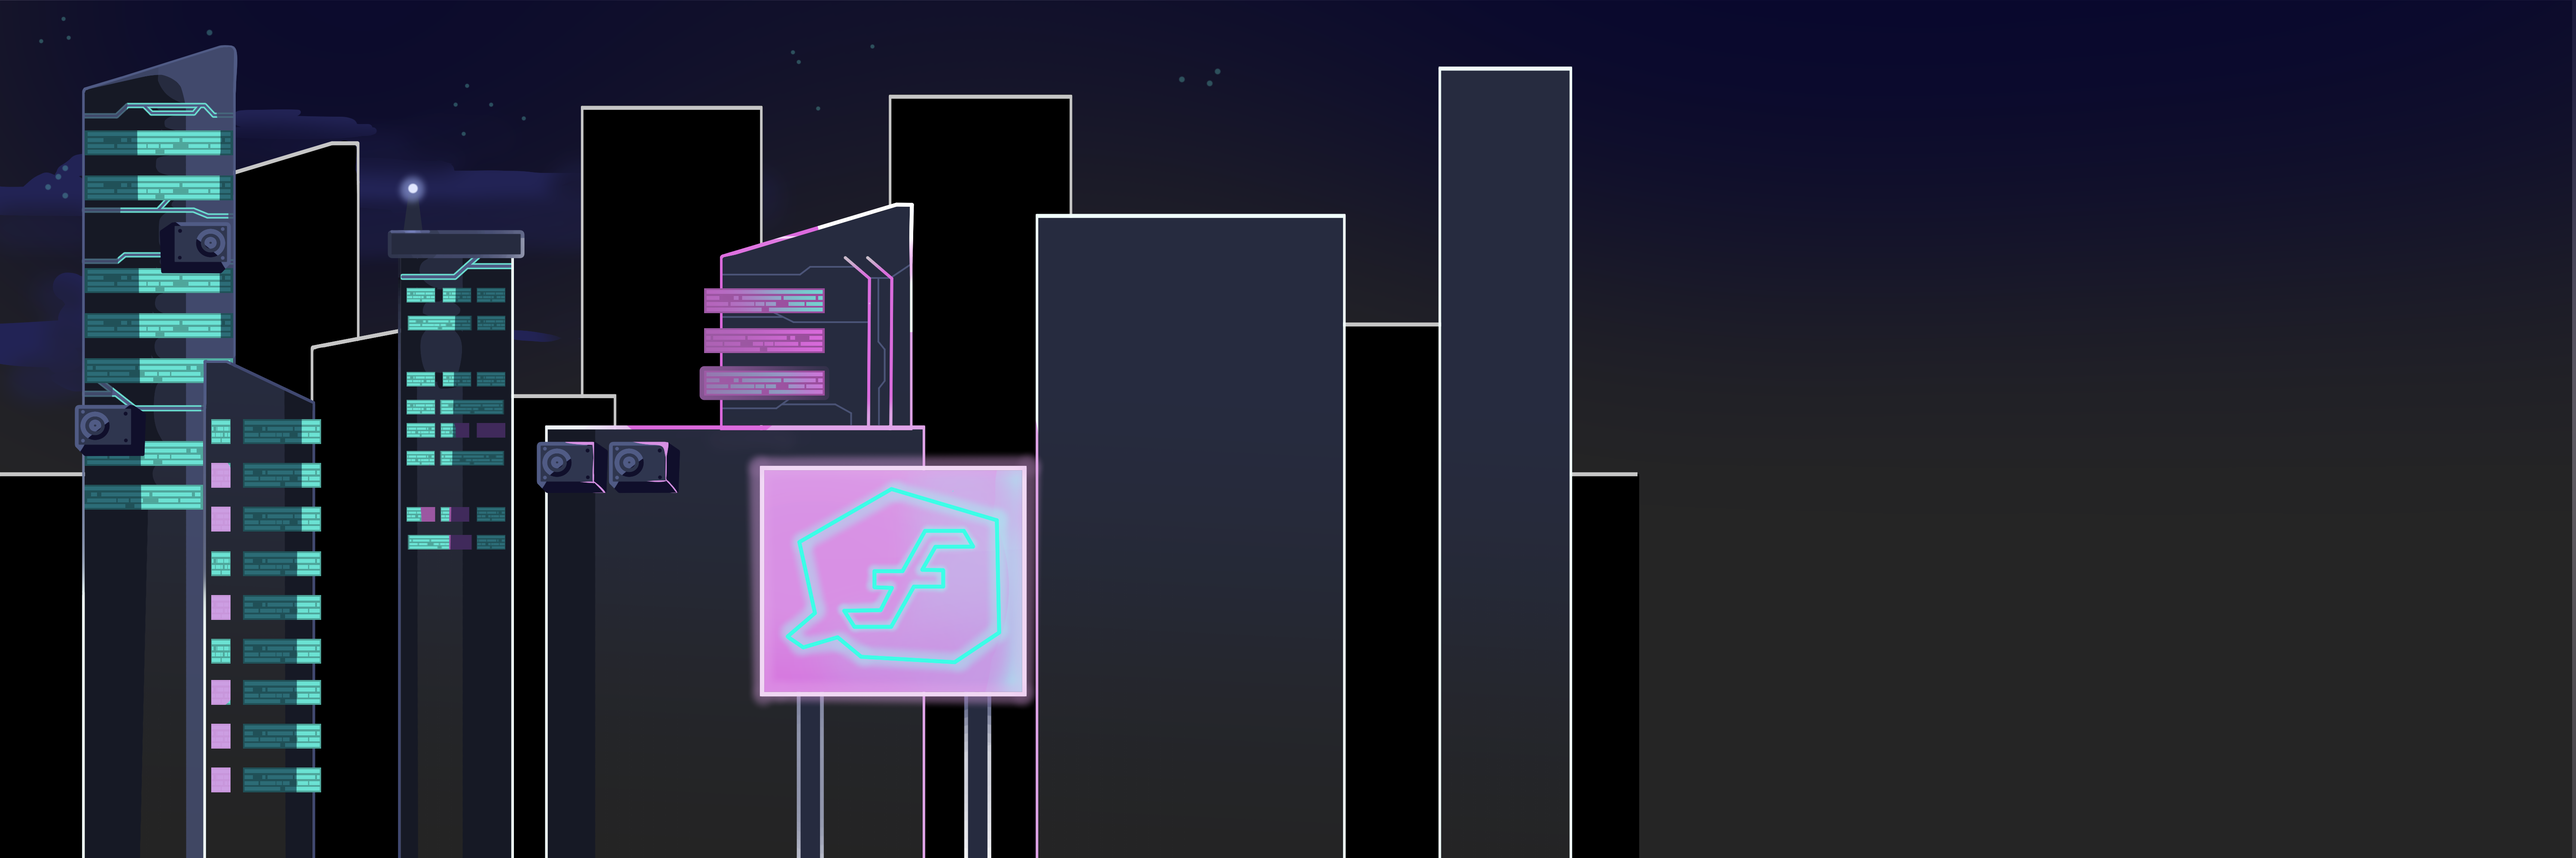
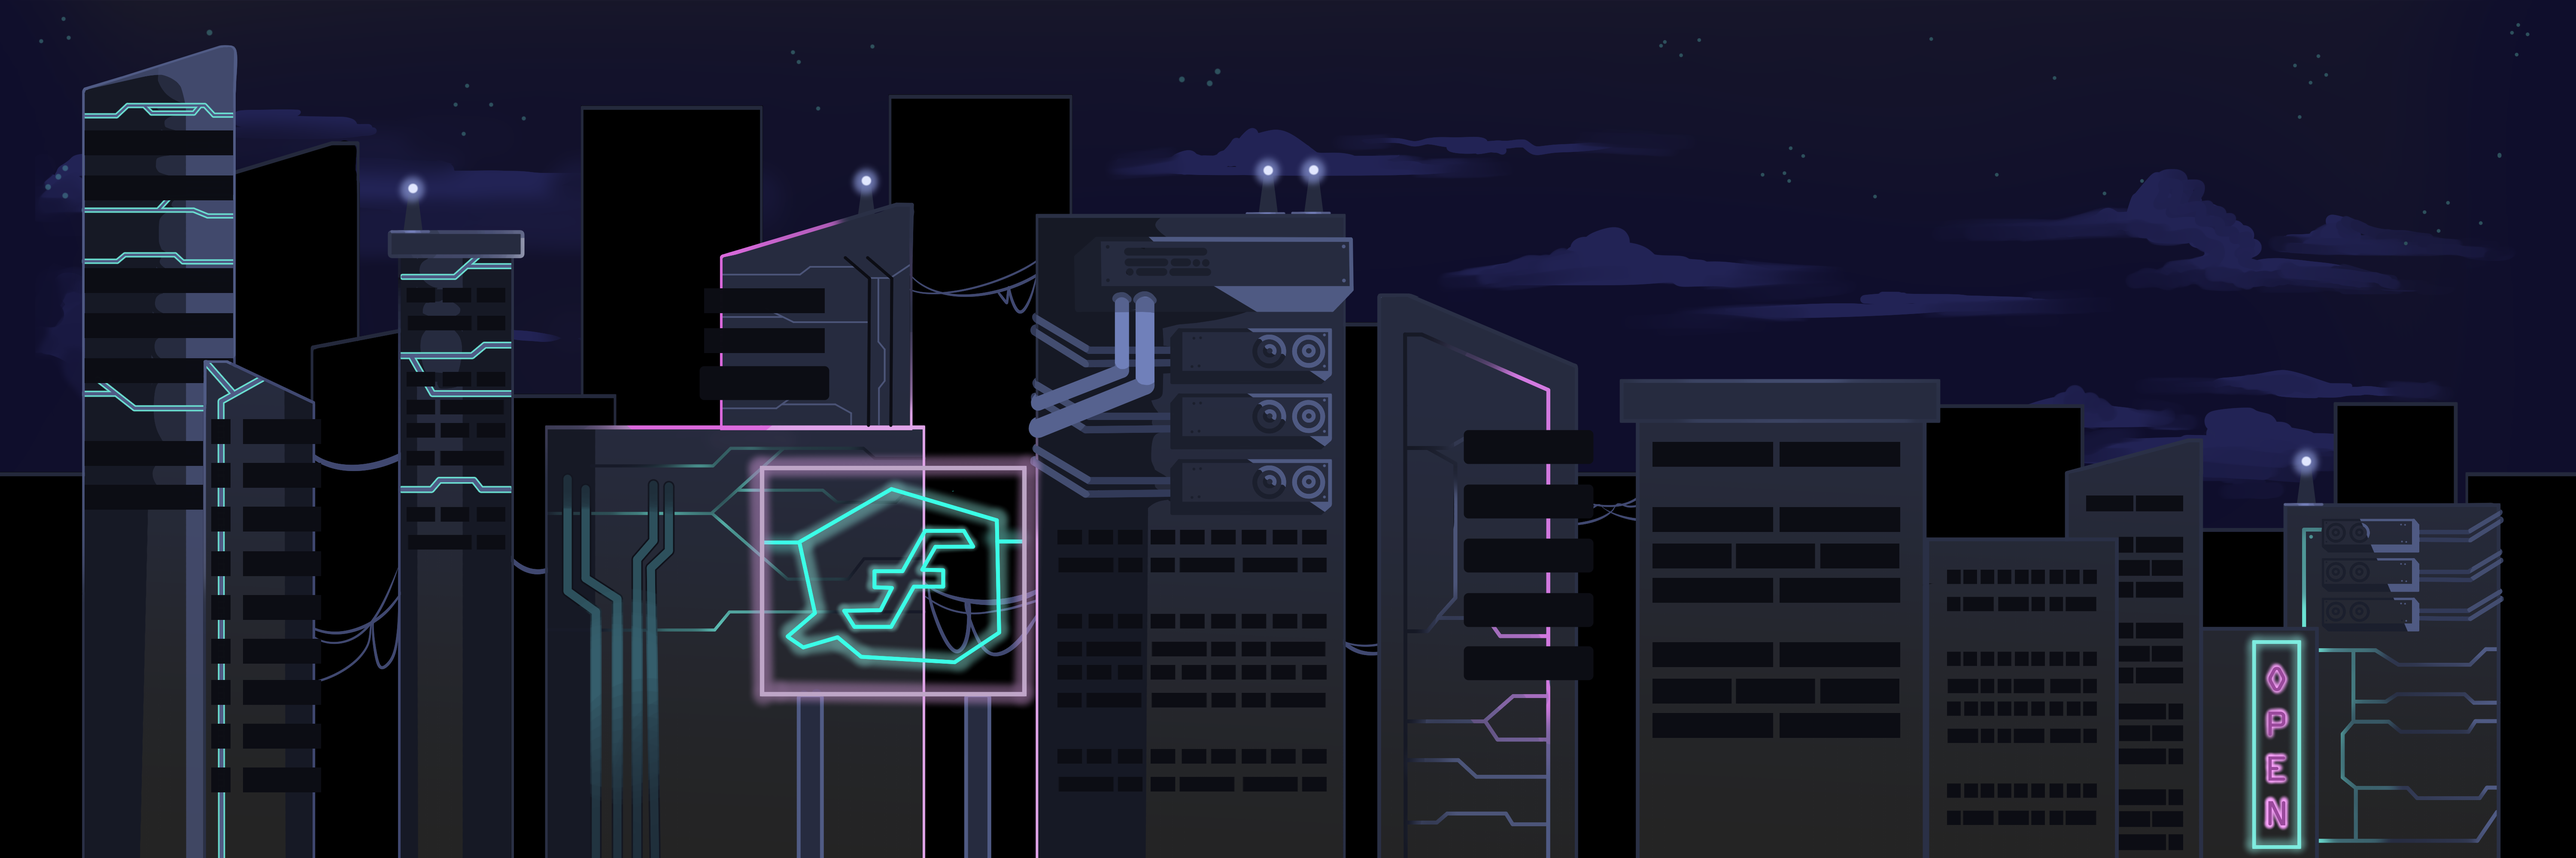
Added the full background and the changing windows with each speed level

diff --git a/lib/CircuitBackground.dart b/lib/CircuitBackground.dart
@@ -4,10 +4,30 @@ import 'package:flame/components.dart';
 import 'package:flame/flame.dart';
 import 'package:flutter/material.dart';
 
+enum WindowState {
+  first,
+  second,
+  third,
+  fourth,
+  fifth,
+  sixth,
+  seventh,
+}
+
 class CircuitBackground extends MovingObject {
   late var background;
+  late var windows0;
+  late var windows1;
+  late var windows2;
+  late var windows3;
+  late var windows4;
+  late var windows5;
+  late var windows6;
+
   late Sprite background1;
   late Sprite background2;
+  late SpriteAnimationGroupComponent windowA;
+  late SpriteAnimationGroupComponent windowB;
   Vector2 background1Size = Vector2(0, 0);
   Vector2 background2Size = Vector2(0, 0);
   Vector2 background1Position = Vector2(0, 0);
@@ -19,23 +39,155 @@ class CircuitBackground extends MovingObject {
     background = await Flame.images.load("bg.png");
     background1 = Sprite(background);
     background2 = Sprite(background);
+
+    windows0 = await Flame.images.load("windows-0.png");
+    windows1 = await Flame.images.load("windows-1.png");
+    windows2 = await Flame.images.load("windows-2.png");
+    windows3 = await Flame.images.load("windows-3.png");
+    windows4 = await Flame.images.load("windows-4.png");
+    windows5 = await Flame.images.load("windows-5.png");
+    windows6 = await Flame.images.load("windows-6.png");
+
+    SpriteAnimation first = SpriteAnimation.fromFrameData(
+        windows0,
+        SpriteAnimationData.sequenced(
+            amount: 1,
+            stepTime: 1,
+            textureSize: Vector2(6000, 2000),
+            loop: false));
+
+    SpriteAnimation second = SpriteAnimation.fromFrameData(
+        windows1,
+        SpriteAnimationData.sequenced(
+            amount: 1,
+            stepTime: 1,
+            textureSize: Vector2(6000, 2000),
+            loop: false));
+
+    SpriteAnimation third = SpriteAnimation.fromFrameData(
+        windows2,
+        SpriteAnimationData.sequenced(
+            amount: 1,
+            stepTime: 1,
+            textureSize: Vector2(6000, 2000),
+            loop: false));
+
+    SpriteAnimation fourth = SpriteAnimation.fromFrameData(
+        windows3,
+        SpriteAnimationData.sequenced(
+            amount: 1,
+            stepTime: 1,
+            textureSize: Vector2(6000, 2000),
+            loop: false));
+
+    SpriteAnimation fifth = SpriteAnimation.fromFrameData(
+        windows4,
+        SpriteAnimationData.sequenced(
+            amount: 1,
+            stepTime: 1,
+            textureSize: Vector2(6000, 2000),
+            loop: false));
+
+    SpriteAnimation sixth = SpriteAnimation.fromFrameData(
+        windows5,
+        SpriteAnimationData.sequenced(
+            amount: 1,
+            stepTime: 1,
+            textureSize: Vector2(6000, 2000),
+            loop: false));
+
+    SpriteAnimation seventh = SpriteAnimation.fromFrameData(
+        windows6,
+        SpriteAnimationData.sequenced(
+            amount: 1,
+            stepTime: 1,
+            textureSize: Vector2(6000, 2000),
+            loop: false));
+
+    windowA = SpriteAnimationGroupComponent(
+      animations: {
+        WindowState.first: first,
+        WindowState.second: second,
+        WindowState.third: third,
+        WindowState.fourth: fourth,
+        WindowState.fifth: fifth,
+        WindowState.sixth: sixth,
+        WindowState.seventh: seventh,
+      },
+      current: WindowState.first,
+    );
+
+    windowB = SpriteAnimationGroupComponent(
+      animations: {
+        WindowState.first: first,
+        WindowState.second: second,
+        WindowState.third: third,
+        WindowState.fourth: fourth,
+        WindowState.fifth: fifth,
+        WindowState.sixth: sixth,
+        WindowState.seventh: seventh,
+      },
+      current: WindowState.first,
+    );
+
     setUp();
   }
 
   void setUp() {
+    windowA.current = WindowState.first;
+    windowB.current = WindowState.first;
+    gameRef.add(windowA);
+    gameRef.add(windowB);
     background1Position = Vector2(0, 0);
     background1Size = Vector2(
         gameRef.size.y * (background!.width / background!.height),
         gameRef.size.y);
+    windowA.position = background1Position;
+    windowA.size = background1Size;
+
     background2Position =
         Vector2(background1Position.x + background1Size.x - 1, 0);
     background2Size = Vector2(
         gameRef.size.y * (background!.width / background!.height),
         gameRef.size.y);
+    windowB.position = background2Position;
+    windowB.size = background2Size;
   }
 
   @override
   void update(double dt) {
+    switch (gameRef.gameState.getLevel()) {
+      case 7:
+        gameRef.circuitBackground.windowA.current = WindowState.seventh;
+        gameRef.circuitBackground.windowB.current = WindowState.seventh;
+        break;
+      case 6:
+        gameRef.circuitBackground.windowA.current = WindowState.sixth;
+        gameRef.circuitBackground.windowB.current = WindowState.sixth;
+        break;
+      case 5:
+        gameRef.circuitBackground.windowA.current = WindowState.fifth;
+        gameRef.circuitBackground.windowB.current = WindowState.fifth;
+        break;
+      case 4:
+        gameRef.circuitBackground.windowA.current = WindowState.fourth;
+        gameRef.circuitBackground.windowB.current = WindowState.fourth;
+        break;
+      case 3:
+        gameRef.circuitBackground.windowA.current = WindowState.third;
+        gameRef.circuitBackground.windowB.current = WindowState.third;
+        break;
+      case 2:
+        gameRef.circuitBackground.windowA.current = WindowState.second;
+        gameRef.circuitBackground.windowB.current = WindowState.second;
+        break;
+      default:
+        gameRef.circuitBackground.windowA.current = WindowState.first;
+        gameRef.circuitBackground.windowB.current = WindowState.first;
+        break;
+    }
+    windowA.update(dt);
+    windowB.update(dt);
     if (background1Position.x + background1Size.x < 0) {
       double newPosition = background2Position.x + background2Size.x;
       background1Position = Vector2(newPosition - 1, 0);
@@ -46,13 +198,17 @@ class CircuitBackground extends MovingObject {
 
     double velocity = gameRef.gameState.getVelocity() / 10.0;
     background1Position = background1Position - Vector2(velocity * dt, 0);
+    windowA.position = background1Position;
     background2Position = background2Position - Vector2(velocity * dt, 0);
+    windowB.position = background2Position;
   }
 
   void render(Canvas canvas) {
     background1.render(canvas,
         size: background1Size, position: background1Position);
+    // windowA.render(canvas);
     background2.render(canvas,
         size: background2Size, position: background2Position);
+    // windowB.render(canvas);
   }
 }

diff --git a/lib/GameState.dart b/lib/GameState.dart
@@ -1,14 +1,7 @@
-import 'dart:math';
-
+import 'package:firo_runner/main.dart';
 import 'package:flame/components.dart';
-import 'package:flutter/material.dart';
 
 class GameState extends Component {
-  static const int CIRCUIT_PERIOD = 500000;
-  late Rect square;
-  late Color color = Colors.white;
-  late ColorTween tween;
-
   int start = 0;
   bool isPaused = false;
   int numCoins = 0;
@@ -19,7 +12,6 @@ class GameState extends Component {
     super.update(dt);
     if (!isPaused) {
       distance = DateTime.now().microsecondsSinceEpoch - start;
-      color = tween.lerp(sin(distance.toDouble() / CIRCUIT_PERIOD))!;
     }
   }
 
@@ -27,25 +19,10 @@ class GameState extends Component {
     numCoins++;
   }
 
-  @override
-  void render(Canvas c) {
-    super.render(c);
-    c.drawRect(square, Paint()..color = color);
-  }
-
-  Future load(Vector2 size) async {
-    square = Rect.fromLTWH(0, 0, size.x, size.y);
-  }
-
-  void setSize(Vector2 size) {
-    square = Rect.fromLTWH(0, 0, size.x, size.y);
-  }
-
   void setUp() {
     numCoins = 0;
     distance = 0;
     start = DateTime.now().microsecondsSinceEpoch;
-    tween = ColorTween(begin: Colors.yellow, end: Colors.yellowAccent);
     isPaused = false;
   }
 
@@ -53,14 +30,41 @@ class GameState extends Component {
     isPaused = true;
   }
 
+  int getLevel() {
+    if (distance > LEVEL7) {
+      return 7;
+    } else if (distance > LEVEL6) {
+      return 6;
+    } else if (distance > LEVEL5) {
+      return 5;
+    } else if (distance > LEVEL4) {
+      return 4;
+    } else if (distance > LEVEL3) {
+      return 3;
+    } else if (distance > LEVEL2) {
+      return 2;
+    } else {
+      return 1;
+    }
+  }
+
   double getVelocity() {
     if (!isPaused) {
-      if (distance > 50000000) {
-        return 250.0;
-      } else if (distance > 10000000)
-        return 175.0;
-      else {
-        return 100.0;
+      switch (getLevel()) {
+        case 7:
+          return 250.0;
+        case 6:
+          return 200.0;
+        case 5:
+          return 180.0;
+        case 4:
+          return 160.0;
+        case 3:
+          return 140.0;
+        case 2:
+          return 120.0;
+        default:
+          return 100.0;
       }
     } else {
       return 0;

diff --git a/lib/main.dart b/lib/main.dart
@@ -23,6 +23,13 @@ import 'package:flutter/foundation.dart' show kIsWeb;
 
 const COLOR = const Color(0xFFDDC0A3);
 
+const LEVEL2 = 10000000;
+const LEVEL3 = 20000000;
+const LEVEL4 = 30000000;
+const LEVEL5 = 40000000;
+const LEVEL6 = 50000000;
+const LEVEL7 = 60000000;
+
 const RUNNER_PRIORITY = 100;
 const PLATFORM_PRIORITY = 50;
 const WIRE_PRIORITY = 25;
@@ -74,7 +81,6 @@ class MyGame extends BaseGame with PanDetector, TapDetector, KeyboardEvents {
     await bugHolder.loadBugs();
 
     gameState = GameState();
-    await gameState.load(size);
 
     runner = Runner();
     await runner.load(loadSpriteAnimation);
@@ -187,7 +193,6 @@ class MyGame extends BaseGame with PanDetector, TapDetector, KeyboardEvents {
 
   @override
   void render(Canvas canvas) {
-    gameState.render(canvas);
     circuitBackground.render(canvas);
     super.render(canvas);
     final fpsCount = fps(1);
@@ -222,10 +227,6 @@ class MyGame extends BaseGame with PanDetector, TapDetector, KeyboardEvents {
   void onResize(Vector2 size) {
     super.onResize(size);
     blockSize = size.y / 9;
-
-    if (loaded) {
-      gameState.setSize(size);
-    }
   }
 
   // Mobile controls

diff --git a/lib/Wire.dart b/lib/Wire.dart
@@ -10,8 +10,8 @@ class Wire extends MovingObject {
     SpriteAnimation normal = SpriteAnimation.fromFrameData(
       wire,
       SpriteAnimationData.sequenced(
-        amount: 6,
-        stepTime: 0.1,
+        amount: 12,
+        stepTime: 0.05,
         textureSize: Vector2(512, 512),
       ),
     );

diff --git a/lib/PlatformHolder.dart b/lib/PlatformHolder.dart
@@ -69,7 +69,6 @@ class PlatformHolder {
     levelHolder[j].remove();
     levelHolder[j].sprite.remove();
     levelHolder.removeAt(j);
-    print("removed platform");
   }
 
   void removePast(MyGame gameRef) {
